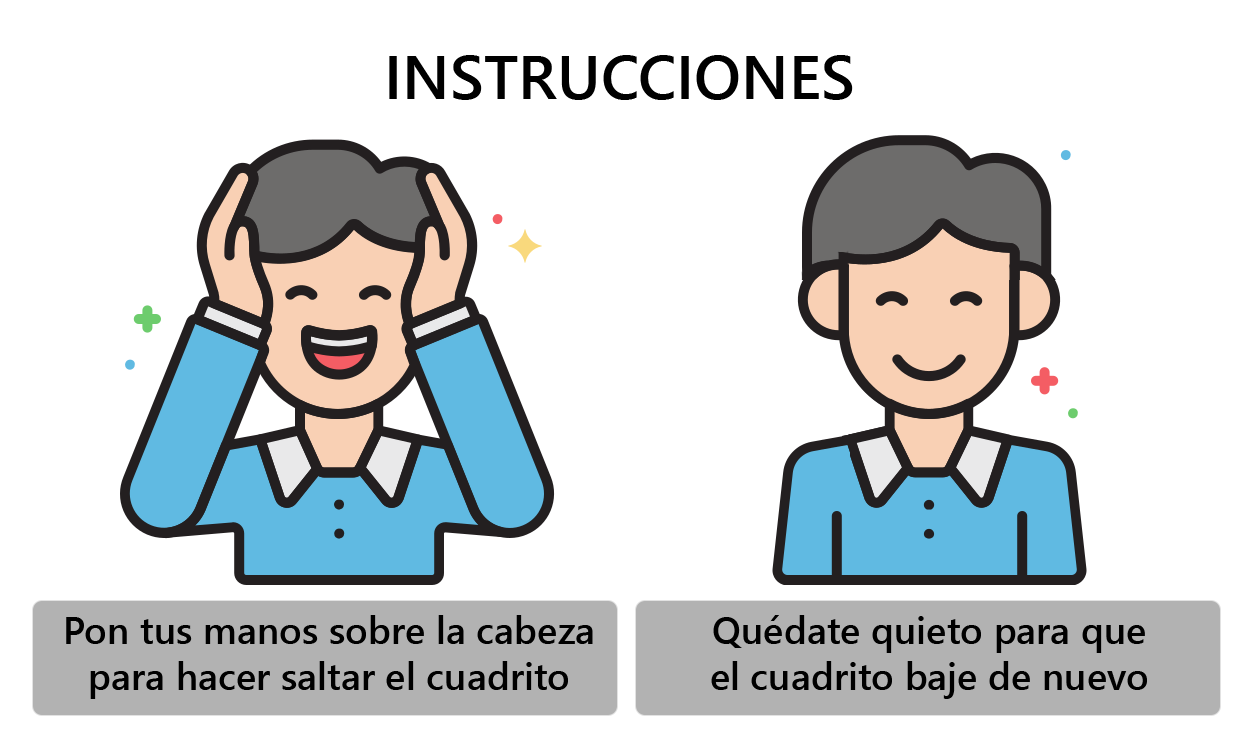
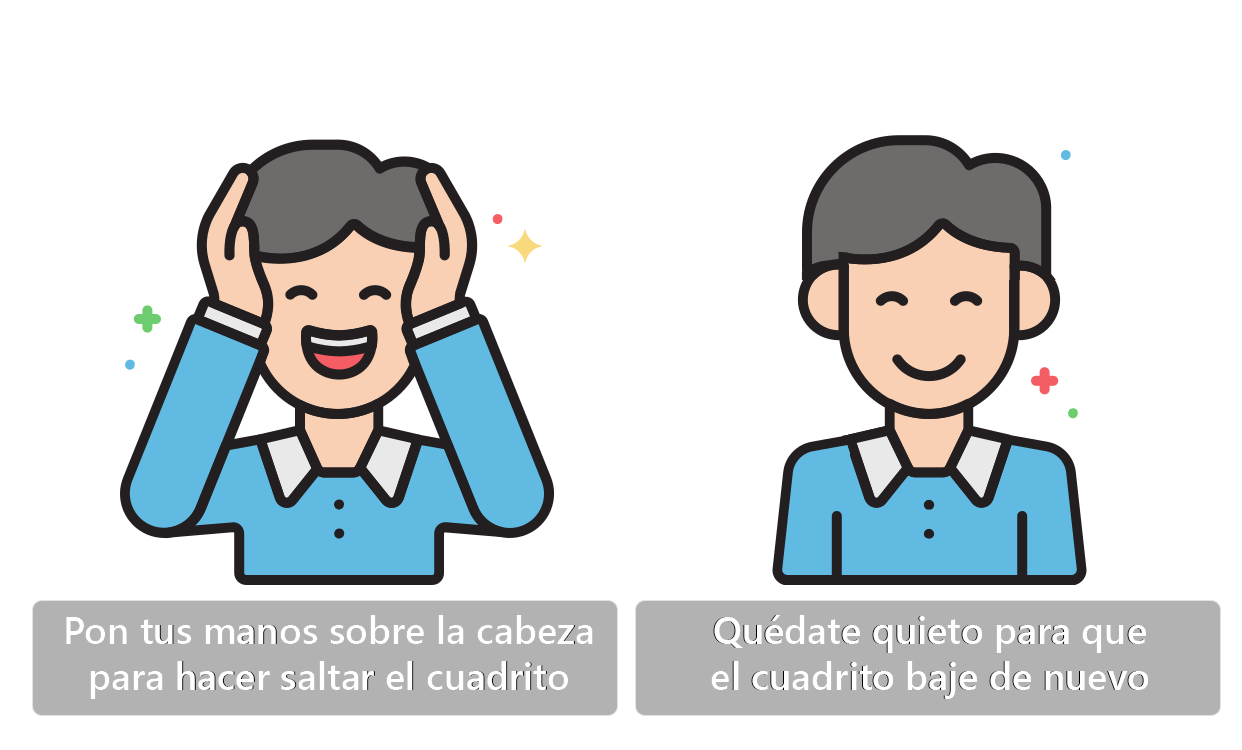
Rediseño con fondos e instrucciones

diff --git a/styles/juego.css b/styles/juego.css
@@ -1,7 +1,7 @@
 body {
       width: 100%;
       padding: 10px 20px;
-      background-image: url('../images/juegoBackground.jpg');
+      background-image: url('../images/minecraftBackground.jpg');
       background-repeat: no-repeat;
       background-attachment: fixed;
       background-size: cover;
@@ -10,32 +10,32 @@ body {
 #webcam-container {
       position: absolute;
       top: 20px;
-      right: 218px;
+      right: 80px;
 }
 
 #webcam-container>canvas {
       border-radius: 15px;
-      border: 5px solid red;
+      border: 5px solid royalblue;
 }
 
 #label-container {
       position: absolute;
-      top: 335px;
-      right: 225px;
-      font-size: 18px;
+      top: 285px;
+      right: 80px;
+      font-size: 15px;
 }
 
 #reiniciarJuego {
       position: absolute;
-      top: 395px;
-      right: 300px;
+      top: 340px;
+      right: 80px;
 }
 
 #instrucciones {
       width: 30%;
       position: absolute;
       bottom: 25px;
-      right: 130px;
+      right: 50px;
 }
 
 .juego {
@@ -57,6 +57,6 @@ body {
 
 #creditos {
       position: absolute;
-      bottom: 100px;
+      bottom: 115px;
       left: 50px;
 }

diff --git a/styles/intro.css b/styles/intro.css
@@ -1,5 +1,5 @@
 body {
-      background-image: url('../images/introBackground.jpg');
+      background-image: url('../images/marioBackground.jpg');
       background-repeat: no-repeat;
       background-attachment: fixed;
       background-size: cover;
@@ -8,7 +8,7 @@ body {
 .alertaCamara {
       margin: 10px 50px;
       padding: 35px;
-      background-color: rgba(248, 211, 0, 0.5);
+      background-color: rgba(125, 245, 165, 0.25);
       width: 100%;
       height: 60vh;
 }

diff --git a/juego.html b/juego.html
@@ -68,7 +68,7 @@
 
                   // Agregando función a la webcam
                   const flip = true; // whether to flip the webcam
-                  webcam = new tmImage.Webcam(300, 300, flip); // width, height, flip
+                  webcam = new tmImage.Webcam(250, 250, flip); // width, height, flip
                   await webcam.setup(); // request access to the webcam
                   await webcam.play();
                   window.requestAnimationFrame(loop);
